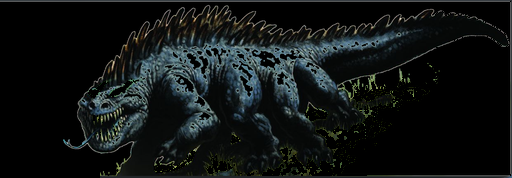
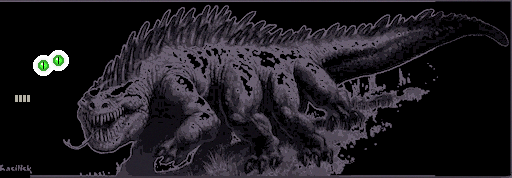
feat: posterized basilisk (game-native palette) + fix dissolve animation
Image processing:
- Posterize source image to 5 flat tone bands in charcoal/violet palette
- Strips photographic detail, keeps silhouette + proportions
- Hand-placed vivid green eyes as focal points
- Small bright tooth marks in jaw area
- Reads as stylized game creature, not a photo filter

Animation fix:
- Fix dissolve using cell x/y positions instead of broken gridIndex.indexOf
- Dissolve now correctly radiates from edges inward with noise

diff --git a/packages/client/src/components/pretext/game/MonsterAsciiRenderer.ts b/packages/client/src/components/pretext/game/MonsterAsciiRenderer.ts
@@ -1023,24 +1023,22 @@ export function renderMonster(
 
   // Dissolve: remove cells from edges inward based on dissolve progress
   if (anim.dissolve > 0) {
-    // Use a noise-based threshold so cells vanish organically, not in a line
+    const rcx = centerX + renderW / 2;
+    const rcy = centerY + renderH / 2;
+    const maxDist = Math.sqrt(renderW * renderW + renderH * renderH) * 0.5;
     for (let i = 0; i < cellCount; i++) {
       const c = cellBuffer[i];
-      // Edge distance: cells near the silhouette edge dissolve first
-      const gIdx = gridIndex.indexOf(i);
-      const col = gIdx >= 0 ? gIdx % cols : 0;
-      const row = gIdx >= 0 ? Math.floor(gIdx / cols) : 0;
-      // Normalized distance from center
-      const dx = (col / cols - 0.5) * 2;
-      const dy = (row / rows - 0.5) * 2;
+      // Distance from creature center, normalized 0..1
+      const dx = (c.x - rcx) / (maxDist || 1);
+      const dy = (c.y - rcy) / (maxDist || 1);
       const edgeDist = Math.sqrt(dx * dx + dy * dy);
-      // Add noise so it's not a clean circle
-      const noise = Math.sin(col * 7.3 + row * 13.7) * 0.3;
-      const threshold = anim.dissolve * 1.5; // dissolve faster at edges
+      // Noise so cells vanish organically
+      const noise = Math.sin(c.x * 0.7 + c.y * 1.3) * 0.2;
+      const threshold = anim.dissolve * 1.4;
       if (edgeDist + noise > (1 - threshold)) {
-        c.a = 0; // hide this cell
+        c.a = 0;
       } else {
-        c.a *= 1 - anim.dissolve * 0.5; // fade remaining cells
+        c.a *= 1 - anim.dissolve * 0.5;
       }
     }
   }
